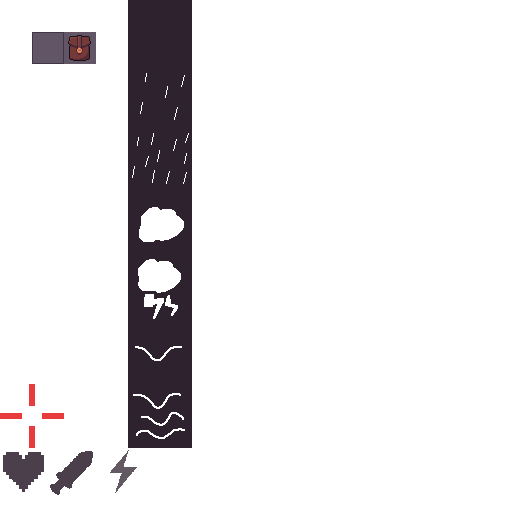
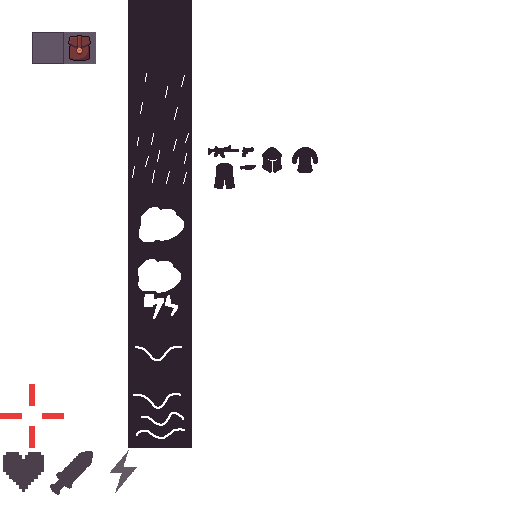
0.7.274

Changed region(s): [[0.4062, 0.2812, 0.625, 0.375]]

diff --git a/gamestream_flutter/lib/game_ui.dart b/gamestream_flutter/lib/game_ui.dart
@@ -369,8 +369,8 @@ class GameUI {
         image: GameImages.atlas_icons,
         srcX: AtlasIcons.getSrcX(iconType),
         srcY: AtlasIcons.getSrcY(iconType),
-        srcWidth: AtlasIcons.getSrcSize(iconType),
-        srcHeight: AtlasIcons.getSrcSize(iconType),
+        srcWidth: AtlasIcons.getSrcWidth(iconType),
+        srcHeight: AtlasIcons.getSrcHeight(iconType),
         scale: scale,
         color: color,
       );
@@ -473,18 +473,49 @@ class GameUI {
           )
       ]);
 
+  static int mapItemTabToIconType(ItemTab itemTab) => const {
+      ItemTab.Primary_Weapon: IconType.Primary_Weapon,
+      ItemTab.Secondary_Weapon: IconType.Secondary_Weapon,
+      ItemTab.Tertiary_Weapon: IconType.Tertiary_Weapon,
+      ItemTab.Head_Type: IconType.Head_Type,
+      ItemTab.Body_Type: IconType.Body_Type,
+      ItemTab.Legs_Type: IconType.Leg_Type,
+    }[itemTab] ?? IconType.Unknown;
+
+  static Widget buildIconItemTab(ItemTab itemTab) =>
+      buildAtlasIconType(mapItemTabToIconType(itemTab));
+
   static Widget buildWindowPlayerItems(){
       return watch(GamePlayer.items_reads, (t) {
-        return Column(
-          children: GamePlayer.items.entries.map((entry){
-            return Row(
-              children: [
-                text(ItemType.getName(entry.key)),
-                width8,
-                text(entry.value),
-              ],
-            );
-          }).toList(),
+        return Container(
+          padding: GameStyle.Padding_6,
+          color: GameStyle.Container_Color,
+          width: 300,
+          child: Column(
+            crossAxisAlignment: CrossAxisAlignment.start,
+            children: [
+              Row(children: ItemTab.values.map(buildIconItemTab).toList()),
+              Column(
+                crossAxisAlignment: CrossAxisAlignment.start,
+                children: GamePlayer.items.entries.map((entry){
+                  final itemType = entry.key;
+                  return Row(
+                    mainAxisAlignment: MainAxisAlignment.spaceBetween,
+                    children: [
+                      Row(
+                        children: [
+                          buildAtlasItemType(itemType),
+                          width8,
+                          text(ItemType.getName(itemType)),
+                        ],
+                      ),
+                      text(entry.value),
+                    ],
+                  );
+                }).toList(),
+              ),
+            ],
+          ),
         );
       });
   }

diff --git a/gamestream_flutter/lib/game_atlas.dart b/gamestream_flutter/lib/game_atlas.dart
@@ -321,6 +321,12 @@ class AtlasIcons {
     IconType.Heart: 0,
     IconType.Damage: 48,
     IconType.Energy: 96,
+    IconType.Primary_Weapon: 208,
+    IconType.Secondary_Weapon: 240,
+    IconType.Tertiary_Weapon: 240,
+    IconType.Head_Type: 262,
+    IconType.Body_Type: 292,
+    IconType.Leg_Type: 214,
   }[itemType] ?? 0;
 
   static double getSrcY(int itemType) => const  <int, double> {
@@ -349,7 +355,31 @@ class AtlasIcons {
     IconType.Heart: 448,
     IconType.Damage: 448,
     IconType.Energy: 448,
+    IconType.Primary_Weapon: 145,
+    IconType.Secondary_Weapon: 147,
+    IconType.Tertiary_Weapon: 166,
+    IconType.Head_Type: 147,
+    IconType.Body_Type: 147,
+    IconType.Leg_Type: 163,
   }[itemType] ?? 0;
+
+  static double getSrcWidth(int itemType) => const  <int, double> {
+    IconType.Primary_Weapon: 31,
+    IconType.Secondary_Weapon: 12,
+    IconType.Tertiary_Weapon: 16,
+    IconType.Head_Type: 20,
+    IconType.Body_Type: 26,
+    IconType.Leg_Type: 21,
+  }[itemType] ?? getSrcSize(itemType);
+
+  static double getSrcHeight(int itemType) => const  <int, double> {
+    IconType.Primary_Weapon: 13,
+    IconType.Secondary_Weapon: 10,
+    IconType.Tertiary_Weapon: 5,
+    IconType.Head_Type: 26,
+    IconType.Body_Type: 26,
+    IconType.Leg_Type: 26,
+  }[itemType] ?? getSrcSize(itemType);
 
   static double getSrcSize(int itemType) => const  <int, double> {
       IconType.Heart: 48.0,

diff --git a/gamestream_flutter/lib/enums/icon_type.dart b/gamestream_flutter/lib/enums/icon_type.dart
@@ -27,4 +27,12 @@ class IconType {
   static const Heart = 31;
   static const Damage = 32;
   static const Energy = 33;
+  static const Unknown = 100;
+
+  static const Primary_Weapon = 34;
+  static const Secondary_Weapon = 35;
+  static const Tertiary_Weapon = 36;
+  static const Head_Type = 37;
+  static const Body_Type = 38;
+  static const Leg_Type = 39;
 }

diff --git a/gamestream_flutter/lib/src/client/src/client_state.dart b/gamestream_flutter/lib/src/client/src/client_state.dart
@@ -27,6 +27,8 @@ class ClientState {
 
   static final triggerAlarmNoMessageReceivedFromServer = Watch(false);
 
+  static final itemTab = Watch(ItemTab.Primary_Weapon);
+
   static final particles = <Particle>[];
 
   static var totalParticles = 0;

diff --git a/gamestream_flutter/lib/enums/library.dart b/gamestream_flutter/lib/enums/library.dart
@@ -9,3 +9,4 @@ export 'drag_start.dart';
 export 'client_type.dart';
 export 'visibility.dart';
 export 'emission_type.dart';
+export 'item_tab.dart';

diff --git a/gamestream_flutter/lib/enums/item_tab.dart b/gamestream_flutter/lib/enums/item_tab.dart
@@ -1,0 +1,8 @@
+enum ItemTab {
+  Primary_Weapon,
+  Secondary_Weapon,
+  Tertiary_Weapon,
+  Head_Type,
+  Body_Type,
+  Legs_Type,
+}

diff --git a/bleed-common/lib/src/version.dart b/bleed-common/lib/src/version.dart
@@ -1,4 +1,4 @@
-const version = '0.7.273';
+const version = '0.7.274';
 
 
 

diff --git a/bleed-server/lib/common/src/version.dart b/bleed-server/lib/common/src/version.dart
@@ -1,4 +1,4 @@
-const version = '0.7.273';
+const version = '0.7.274';
 
 
 
